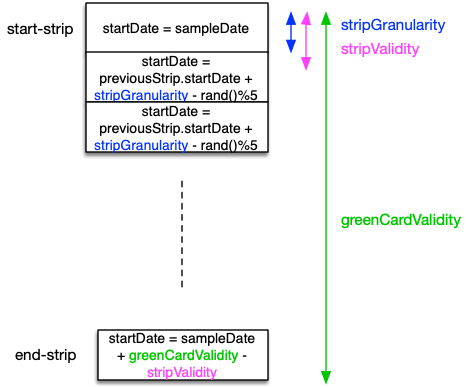
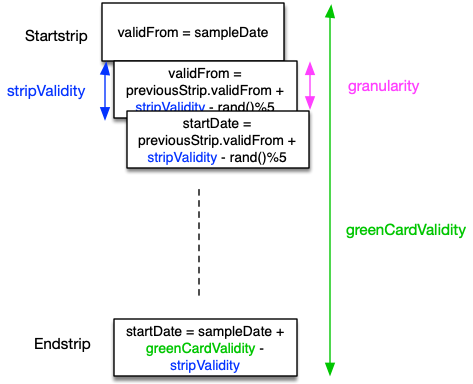
Changed based on review feedback

Changed region(s): [[0.0, 0.0, 0.9851, 1.0], [0.0299, 0.8125, 0.6567, 1.0], [0.4179, 0.5, 0.4478, 0.7812]]

diff --git a/architecture/Privacy Preserving Green Card.md b/architecture/Privacy Preserving Green Card.md
@@ -22,13 +22,13 @@ NOTE: This is about the Dutch *domestic* solution. For the European 'Digital Gre
 
 Our team has consistently followed a 'privacy by design' approach, already disclosing as little as possible about the negative result. Currently, a QR presented by the CoronaCheck app contains the following information:
 
-* The `sample date`, which indicated when a person was tested. This value is rounded down to the nearest hour to avoid being able to identify an individual. This date is necessary so the scanner can establish that the test was recent enough.
-* The person's initials and birth month/day. This allows an agent to check the result against an ID to ensure people only use their own negative test result. Initials and only a partial birthdate are used to avoid being able to uniquely identify an individual, while still providing enough information to do a visual comparison against an ID. (To ensure 'equal uniqueness' for everyone, some initials and/or the birth day/month may be omited if the combination of the initials is considered to be too unique - e.g. someone with Z Q initials).
+* The `sampleDate`, which indicated when a person was tested. This value is rounded down to the nearest hour to avoid being able to identify an individual. This date is necessary so the scanner can establish that the test was recent enough.
+* The person's initials and birth month/day. This allows an agent to check the result against an ID to ensure people only use their own negative test result. Initials and only a partial birthdate are used to avoid being able to uniquely identify an individual, while still providing enough information to do a visual comparison against an ID. (To ensure 'equal uniqueness' for everyone, some initials and/or the birth day/month may be omitted if the combination of the initials is considered to be too unique - e.g. someone with Z Q initials).
 * The test type (pcr, antigen) - This was added to be able to distinguish in validity between test types, but is currently not used.
-* A digital signature to etablish the authenticity of the test result and to avoid the data values from being tampered with. The system uses a Camenish-Lysyanskaya signature scheme that offers 'unlinkability' properties - in other words, should the signature be scanned multiple times a day, the signature will be different enough to avoid tracking the individual across multiple scans.
-* A `credential version` which enables forward/backward compatibility when changes are made to the QR structure.
-* A `specimen` flag, to allow test QRs to be generated that can be tested for validity but that will generate a grey 'demo' screen in scanners instead of a green screen.
-* An `isPaper` flag
+* A digital signature to establish the authenticity of the test result and to avoid the data values from being tampered with. The system uses a Camenish-Lysyanskaya signature scheme that offers 'unlinkability' properties - in other words, should the signature be scanned multiple times a day, the signature will be different enough to avoid tracking the individual across multiple scans or by the issuer.
+* A `credentialVersion` which enables forward/backward compatibility when changes are made to the QR structure.
+* A `isSpecimen` flag, to allow test QRs to be generated that can be tested for validity but that will generate a grey 'demo' screen in scanners instead of a green screen.
+* An `isPaper` flag, that allows the scanner to distinguish between proofs intended for the CoronaCheck app and proofs on paper. See also [Paper proofs](#paper-proofs)
 
 Currently, CoronaCheck Scanner always checks if a QR is valid for 40 hours after the sample date. To be able to ensure that a vaccinated person will be able to enter for a much longer period, the scanner should be able to see the difference between a test result and a vaccination. But this is a conundrum: it needs precisely the information that we are trying to hide.
 
@@ -38,15 +38,19 @@ To solve the conundrum we break up our domestic green card in little pieces. A '
 
 ![Strippenkaart analogy](images/strippenkaart.jpg)
 
-Each strip in the strip card is a credential, which has its own signature and each credential's validity is based on the smallest validity that our various proofs have. The smallest proof is currently valid for 40 hours for a negative test result. Since in the past this validity was subject of debate, and ranged from 24-48 hours, we have chosen to make the strip size (the 'granularity') 24 hours. Even if the validity of a negative test changes: as long as it's not smaller than 24 hours, we don't need to change the strip card model. 
+Each strip in the strip card is a credential, which has its own signature and `validFrom`. A credential's validity should be based on the smallest validity that our various proofs have. The smallest proof is currently valid for 40 hours for a negative test result. Since in the past this validity was subject of debate, and ranged from 24-48 hours, we have chosen to make the strip size (the `stripValidity`) 24 hours. Even if the validity of a negative test changes: as long as it's not smaller than the `stripValidity`, we don't need to change the strip card model. Note that the strip validity is not hardcoded in the credential, it's determined by a config value in the backend, holder and scanner apps.
 
 The next picture depicts a sample strip card for both a negative test and a vaccination:
 
 ![Strip card model basics](images/strip_basic.png)
 
-The negative test consists of 2 strips: to cover a 40 hour validity we need 2 24-hour strips. Strips don't have a valid until date, only a valid from date. As such, they don't have to be in sequence; they can overlap. Indeed in this case they must overlap, because 24 + 24 is 48, and we only need 40 hours of validity. So there's an overlap of 8 hours (the second strip starts 8 hours earlier than the first strip ends). This means that multiple strips are valid. The vaccination on the right hand side of the picture has many more strips. When displaying a QR code, the app should select the best strip to show; this is always the strip with the highest startdate, earlier than the time of showing. E.g. at 12 may, 11 am, for the test certificate strip 2 would be shown, for the vaccination it would also be strip 2.
+The negative test consists of 2 strips: to cover a 40 hour validity we need 2 24-hour strips. Strips don't have to be adjacent; they can overlap. Indeed in this case they must overlap, because without overlap, our two strips would have 24 + 24 = 48 hours of validity, and we only need 40 hours. So there's an overlap of 8 hours (the second strip starts 8 hours earlier than the first strip ends). . 
 
-Since the QR includes only the start date, the digital signature and the limited personal information, nothing is revealed about the vaccination status of the user. For CoronaCheck Scanner (or any other scanner for that matter), there is no difference between strips from a vaccination or from a test certificate.
+The vaccination on the right hand side of the picture has many more strips. 
+
+When displaying a QR code, the app should select the strip with the latest `validFrom` that is smaller than the current time. E.g. at 12 may, 11.00am, the test certificate strip would need to show strip 2. For the vaccination it would also be strip 2. (The server should never generate 2 strips with the same `validFrom`. However for resilience in the apps, in case it does happen: the apps can arbitrarily choose the first one)
+
+Since the QR includes only the `validFrom`, the digital signature and the limited personal information, nothing is revealed about the vaccination status of the user. For CoronaCheck Scanner (or any other scanner for that matter), there is no difference between strips from a vaccination or from a test certificate.
 
 ## Strip Renewal
 
@@ -64,7 +68,7 @@ The reasons we generate only 28 days of strips and not all at once:
 
 This renewal process means that the CoronaCheck app will have to regularly fetch new strips. To avoid having to fetch strips at the last possible moment before being scanned, this should be opportunistic: If there are less than `minimumSpareStrips` (a config to be added to the app config, initially set to 5) in the wallet and the app happens to be active and online, the app should request new strips. Note that the last strips in the wallet will then be overwritten by the new set. This is generally not a problem. (We may later add a date offset to the signer).
 
-Apps may employ background checks to renew strips when the app is not actively running; note however that iOS and Android only allow background activity if the app has been active in the last couple of days. This could be used however to optimize the renewal. If there are only 2 days more than minimumSpareStrips when the app is running, it may decide to try to fetch the next batch in the background after 2 days. If the user doesn't open their app again, their strips will still be renewed. 
+Apps may employ background checks to renew strips when the app is not actively running; note however that iOS and Android only allow background activity if the app has been active in the last couple of days. This could be used however to optimize the renewal. If there are only 2 days more than `minimumSpareStrips` when the app is running, it may decide to try to fetch the next batch in the background after 2 days. If the user doesn't open their app again, their strips will still be renewed. 
 
 The renewal process should be transparent to the user and is performed by the app without any user interaction. If strip generation fails for a recoverable reason (e.g. server down) and there are still strips left, the renewal can happen at the next attempt.
 
@@ -72,7 +76,7 @@ There will only be user-interaction in the situation where the app needs new str
 
 ## Strip Randomization
 
-It's always been a privacy requirement to hide as much as possible. One of the fields that's been in the domestic green card since the start is the sampleDate. Although it's rounded down to the nearest hour, it still exposes when a person got their test. With the strip card model, we can hide this more, by randomizing the starttime of the strips. As long as the first and last strip have the correct time, intermediary strips do not have such a requirement. As long as each strip has some overlap with the strip before, the actual start time doesn't matter.
+It's always been a privacy requirement to hide as much as possible. One of the fields that's been in the domestic green card since the start is the `sampleDate`. Although it's rounded down to the nearest hour, it still exposes when a person got their test. With the strip card model, we can hide this more, by randomizing the starttime of the strips. As long as the first and last strip have the correct time, intermediary strips do not have such a requirement. As long as each strip has some overlap with the strip before, the actual start time doesn't matter.
 
 The next picture illustrates how strips don't need the same start time as long as they overlap:
 
@@ -88,7 +92,7 @@ If a strip would start between 20.00 and 0.00, one would be able to derive that 
 
 ## Mass Revocation
 
-The strip renewal gives us a way to ensure strips are never more than 28 days old. Still, there might be a few occasions where it is desirable that strips can be revoked earlier. There is no easy way to do that on a per-case basis, but it can be done in bulk. For example, if at some point it is decided that vaccinations don't last a year but only half a year, and we don't want to allow people to retain their current 28 days worth of strips, then we could bump the credential version that is encoded in a strip, and employ a minimumCredentialVersion config on the holder and scanner apps. 
+The strip renewal gives us a way to ensure strips are never more than 28 days old. Still, there might be a few occasions where it is desirable that strips can be revoked earlier. There is no easy way to do that on a per-case basis, but it can be done in bulk. For example, if at some point it is decided that vaccinations don't last a year but only half a year, and we don't want to allow people to retain their current 28 days worth of strips, then we could bump the credential version that is encoded in a strip, and employ a `minimumCredentialVersion` config on the holder and scanner apps. 
 
 ![Strip card revocation](images/strip_massrevocation.png)
 
@@ -96,7 +100,7 @@ If the app reads its config and `minimumCredentialVersion` is, say 2, whereas th
 
 Note that servers should take into account that if this measure is used, a significant amount of users will start renewing strips, so this couuld generate some additional load. Therefor this feature should only be employed if absolutely necessary.
 
-It is recommended that the scanner also checks the `minimumCredentialVersion`, but only after the holder apps have been able to evaluate the config and renew their strips. In practice this means a delay of 3 days between setting the minimum version in the holder config and the scanner config.
+It is required that the scanner also checks the `minimumCredentialVersion`, but it is recommended to only do this after the holder apps have been able to evaluate the config and renew their strips. In practice this means a delay of 3 days between setting the minimum version in the holder config and the scanner config.
 
 ## Paper proofs
 
@@ -104,9 +108,9 @@ For paper proofs the strip card model requires a few changes. Using strips of 24
 
 For paper proofs, the strip validity is chosen to be 4 weeks (for recovery/vaccination). 
 
-Currently we have an isPaper flag to distinguish between paper and app strips (app strips have an additional requirement to randomize every 90 seconds, paper does not). To avoid adding another field, which increases the QR size, we replace the isPaper by a stripType field, which has the following values:
+Currently we have an `isPaper` flag to distinguish between paper and app strips (app strips have an additional requirement to randomize every 90 seconds, paper does not). To avoid adding another field, which increases the QR size, we replace the `isPaper` by a `stripType` field, which has the following values:
 
-* 0 - app strip (validity 40 hours, refresh requirement 3 minutes)
+* 0 - app strip (validity 24 hours, refresh requirement 3 minutes)
 * 1 - paper strip short (validity 40 hours, no refresh requirement)
 * 2 - paper strip long (validity 28 days, no refresh requirement) 
 
@@ -114,31 +118,53 @@ Currently we have an isPaper flag to distinguish between paper and app strips (a
 
 When this document is implemented, a credential (the technical term for a strip) contains the following data:
 
-* The `start date`, which indicated when the strip starts its validity
+* The `validFrom` (unix timestamp), which indicated when the strip starts its validity
 * The person's initials and birth month/day. 
 * The CL signature 
-* A `credential version` 
-* A `strip type`, see [Paper proofs chapter](#paper-proofs).
-* A `specimen` flag, to allow test QRs to be generated that can be tested for validity but that will generate a grey 'demo' screen in scanners instead of a green screen.
+* A `credentialVersion` 
+* A `stripType`, see [Paper proofs chapter](#paper-proofs).
+* An `isSpecimen` flag, to allow test QRs to be generated that can be tested for validity but that will generate a grey 'demo' screen in scanners instead of a green screen.
 
 ## Appendix 2: Generating credential strips
 
 Terminology:
 * Green card validity: The validity of the green card based on the type, e.g. 40h for a test, 365d for a vaccination, 180d for a recovery. (determined by a config)
-* Strip granularity: The time between the start of one strip and the next, 24h minus some randomness(determined by a signer config)
-* Strip validity: The time that a scanner will deem this strip valid (40 hours, determined by a scanner config)
+* Strip validity: The time that a scanner will deem this strip valid (24 hours, determined by a scanner config)
+* Granularity: How much strips are spaced apart (validity minus a random amount). 
 * Start-strip: The strip at the start of the green card validity
 * End-strip: The strip at the end of the green card validity
 
-The following rules should be applied when generating strips:
+The following rules should be applied when generating strips.
 
-* The start-strip should *start* on the rounded down sampleDate
-* The end-strip should *end* on the rounded down `sampleDate + green card validity`. Since a strip only has a `startDate` and not an `endDate`, the `startDate` of the end-strip is the `endDate - stripValidity` 
+### For an app
+
+* The start-strip should *start* on the rounded down `sampleDate`. 
+* The end-strip should *end* on the rounded down `sampleDate + green card validity`. Since a strip only has a `validFrom` and not a `validUntil`, the `validFrom` of the end-strip is the `endDate - stripValidity` 
 * Only generate strips with future validity. This means that the start-strip is sometimes not used.  
-* Never generate strips with a startdate higher than `today + 28 days`. This means that the end-strip is only generated when strips are renewed for the final 28 days of the green card validity.
-* All other strips should have a startDate that is `previousStrip.startDate + stripGranularity - rand()%5 hours`, causing a random strip overlap of 0-4 hours.
-* If the startDate ends up in 20.00 - 0.00 range (nl timezone), *subtract* 4 hours (don't round them all to 20.00 as that would give a larger than usual amount of 20.00 strips)
+* Never generate strips with a `validFrom` higher than `today + 28 days`. This means that the end-strip is only generated when strips are renewed for the final 28 days of the green card validity.
+* All other strips should have a `validFrom` that is `previousStrip.validFrom + stripValidity - rand()%5 hours`, causing a random strip overlap of 0-4 hours.
+* If the `validFrom` ends up in 20.00 - 0.00 range (nl timezone), *subtract* 4 hours (don't round them all to 20.00 as that would give a larger than usual amount of 20.00 strips)
 
 Some of the calculations visualized:
 
 ![Strip card calculations](images/strip_calc.png)
+
+### For a paper test proof
+
+* Never generate more than 1 strips
+* Set the stripType to 1 (paper strip short)
+* Generate only a single strip, which starts on the rounded down `sampleDate`
+
+### For a paper vaccination/recovery proof
+
+* Never generate more than 1 strips
+* Set the stripType to 2 (paper strip long)
+* If the green card's validity ends within 28 days:
+   * Generate an 'end strip', which starts on the `sampleDate + greencardValidity - stripValidity`
+* Else, if the `sampleDate` is less then 28 days ago: (*)
+   * Generate only a 'start strip', whose `validFrom` starts on the rounded down `sampleDate`
+* Else: 
+   * Generate a 'middle strip' whose `validFrom` starts today
+   
+(*) Todo: we never hand out test/vaccination results that start in the future so we could theoretically omit this startStrip entirely and always generate a strip that starts today.
+
